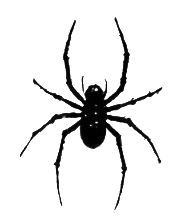
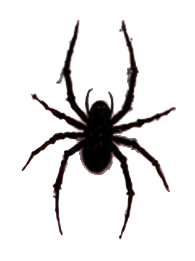
欲望室：换成她加工的竖版背景，蜘蛛和网重新抠；数没到时不再摔停画布

diff --git a/static/yuwang/room.html b/static/yuwang/room.html
@@ -2,14 +2,14 @@
 <style>
 html,body{margin:0;height:100%;background:#e9e6e0;overflow:hidden;-webkit-user-select:none;user-select:none;touch-action:none;font-family:"Kaiti SC","STKaiti","KaiTi","Songti SC",serif}
 #st{position:absolute;left:0;top:0;transform-origin:0 0}
-#bg{position:absolute;left:0;top:0;width:961px;height:1280px}
+#bg{position:absolute;left:0;top:0;width:961px;height:2081px}
 canvas{position:absolute;left:0;top:0}
-#words{position:absolute;left:400px;top:340px;width:380px;height:560px;display:flex;flex-direction:column;justify-content:center;gap:34px;pointer-events:none;transition:opacity .9s}
+#words{position:absolute;left:374px;top:700px;width:400px;height:340px;display:flex;flex-direction:column;justify-content:center;gap:34px;pointer-events:none;transition:opacity .9s}
 .w{color:#141310;font-size:29px;line-height:1.6;opacity:0;transform:translateY(8px) rotate(var(--r));transition:opacity 1.6s,transform 1.6s;text-shadow:0 0 3px #f7f4ee,0 0 6px #f7f4ee,0 0 10px #f2eee6,0 0 16px rgba(242,238,230,.9),0 0 24px rgba(242,238,230,.8)}
 .w.on{opacity:.96;transform:translateY(0) rotate(var(--r))}
 .w i{display:block;font-style:normal;font-size:20px;color:#a3121a;margin-top:4px;letter-spacing:2px;text-shadow:0 0 4px #f7f4ee,0 0 9px #f7f4ee,0 0 14px #f2eee6}
-#rose{position:absolute;left:20px;top:395px;width:350px;height:430px;border-radius:45%;cursor:pointer}
-#stem{position:absolute;left:120px;top:780px;width:150px;height:380px;cursor:pointer}
+#rose{position:absolute;left:20px;top:813px;width:354px;height:310px;border-radius:45%;cursor:pointer}
+#stem{position:absolute;left:140px;top:1122px;width:150px;height:600px;cursor:pointer}
 .bf{position:absolute;border-radius:50%;cursor:pointer;-webkit-tap-highlight-color:transparent}
 #spHit{position:absolute;width:190px;height:230px;cursor:grab}
 #diary{position:fixed;inset:0;background:rgba(236,233,226,.97);opacity:0;pointer-events:none;transition:opacity .7s;overflow-y:auto;-webkit-overflow-scrolling:touch;touch-action:pan-y}
@@ -25,22 +25,22 @@ canvas{position:absolute;left:0;top:0}
 .pg .sd b{display:block;font-weight:normal;font-size:12px;color:#999;margin-bottom:4px;letter-spacing:2px}
 .none{text-align:center;color:#888;margin-top:30vh;font-size:16px}
 </style></head><body>
-<div id="st"><img id="bg" src="/static/yuwang/bg.jpg?v=3"><canvas id="cv" width="961" height="1280"></canvas>
-<div id="words"></div><div id="rose"></div><div id="stem"></div><div id="spHit"></div><div class="bf" id="bf1" style="left:600px;top:595px;width:295px;height:260px"></div><div class="bf" id="bf2" style="left:500px;top:940px;width:215px;height:165px"></div></div>
+<div id="st"><img id="bg" src="/static/yuwang/bg.jpg?v=4"><canvas id="cv" width="961" height="2081"></canvas>
+<div id="words"></div><div id="rose"></div><div id="stem"></div><div id="spHit"></div><div class="bf" id="bf1" style="left:615px;top:1054px;width:283px;height:257px"></div><div class="bf" id="bf2" style="left:507px;top:1439px;width:212px;height:179px"></div></div>
 <div id="diary"><div class="hd"><span class="bk" id="dbk">← 回去</span><span class="tt">噜噜日记</span></div><div id="dlist"></div></div>
 <script>
 (function(){
-var IW=961,IH=1280, st=document.getElementById('st'), cv=document.getElementById('cv'), ctx=cv.getContext('2d');
-var SP=new Image(); SP.src='/static/yuwang/spider.png';
-var WB=new Image(), WRED=null; WB.src='/static/yuwang/web.png';
+var IW=961,IH=2081, st=document.getElementById('st'), cv=document.getElementById('cv'), ctx=cv.getContext('2d');
+var SP=new Image(); SP.src='/static/yuwang/spider.png?v=4';
+var WB=new Image(), WRED=null; WB.src='/static/yuwang/web.png?v=4';
 // 网的丝抠出来了一份；再染一份红的，按数裁出来盖在丝上
 WB.onload=function(){var c=document.createElement('canvas');c.width=WB.width;c.height=WB.height;var x=c.getContext('2d');x.drawImage(WB,0,0);x.globalCompositeOperation='source-in';x.fillStyle='#b0101c';x.fillRect(0,0,c.width,c.height);WRED=c;};
-var WOX=188,WOY=183;   // 抠出来那张里网心的位置
+var WOX=186,WOY=531;   // 抠出来那张里网心的位置
 var D=window.YW_DATA||null;
 // 蜘蛛：静止时它就在原画那个位置，丝从顶上垂下来
-var S0={x:692,y:233}, SPW=185, SPH=220, SPOX=92, SPOY=18;  // 抠图左上(600,215)，头顶挂丝点在图里(692,233)
+var S0={x:707,y:581}, SPW=195, SPH=260, SPOX=98, SPOY=21;  // 抠图左上(600,215)，头顶挂丝点在图里(692,233)
 var pull=0, vel=0, drag=false, dragY0=0, pull0=0, sway=0, open=false, openT=0;
-var WC={x:188,y:183}, WR=250;          // 原画那张网的中心和半径
+var WC={x:186,y:531}, WR=250;          // 原画那张网的中心和半径
           // 拉开时网挪到中间放大
 var hit=document.getElementById('spHit');
 function layout(){var W=innerWidth,H=innerHeight,s=Math.min(W/IW,H/IH);st.style.transform='translate('+((W-IW*s)/2)+'px,'+((H-IH*s)/2)+'px) scale('+s+')';st._s=s;}
@@ -79,9 +79,9 @@ function fillWords(){
     setTimeout(function(){d.classList.add('on');},600+i*900);});
 }
 // 网
-function webPts(c,R,t){var ds=dims(),n=ds.length||18,pts=[];for(var i=0;i<n;i++){var a=-Math.PI/2+i/n*Math.PI*2,v=val(ds[i].key)/100;var r=R*(0.06+0.94*v)*(1+0.012*Math.sin(t*1.3+i));pts.push({x:c.x+Math.cos(a)*r,y:c.y+Math.sin(a)*r,a:a,v:v,name:ds[i].name,raw:val(ds[i].key)});}return pts;}
+function webPts(c,R,t){var ds=dims(),n=ds.length,pts=[];for(var i=0;i<n;i++){var a=-Math.PI/2+i/n*Math.PI*2,v=val(ds[i].key)/100;var r=R*(0.06+0.94*v)*(1+0.012*Math.sin(t*1.3+i));pts.push({x:c.x+Math.cos(a)*r,y:c.y+Math.sin(a)*r,a:a,v:v,name:ds[i].name,raw:val(ds[i].key)});}return pts;}
 // 拉开以后那张：自己织一张完整的网，铺在中间那块白上
-var BC={x:575,y:615}, BRR=170, PW=null, PWR=null, PWS=0;
+var BC={x:594,y:911}, BRR=170, PW=null, PWR=null, PWS=0;
 function weave(){var sz=Math.ceil(BRR*2.3),c=document.createElement('canvas');c.width=c.height=sz;var x=c.getContext('2d'),o=sz/2,n=18,ang=[];
   for(var i=0;i<n;i++)ang.push(-Math.PI/2+i/n*Math.PI*2+(Math.sin(i*7.3)*0.05));
   x.strokeStyle='#161514';x.lineCap='round';
@@ -99,6 +99,7 @@ function redClip(c,R,pts,n){ctx.beginPath();
 function drawWeb(t,k){
   // 角落里原来那张：一直在，丝按数染红
   var pts=webPts(WC,WR,t),n=pts.length;
+  if(!n)return;
   if(WRED){ctx.save();redClip(WC,WR,pts,n);ctx.globalAlpha=0.82+0.18*Math.sin(t*1.4);
     ctx.drawImage(WRED,WC.x-WOX,WC.y-WOY);ctx.drawImage(WRED,WC.x-WOX,WC.y-WOY);ctx.restore();}
   if(k<0.01)return;
@@ -144,14 +145,15 @@ function drawInks(){for(var i=inks.length-1;i>=0;i--){var k=inks[i];k.t+=1/60;va
   var r=(14+90*Math.pow(p,.6))*k.big,a=(1-p)*.5;var g=ctx.createRadialGradient(k.x,k.y,r*.2,k.x,k.y,r);g.addColorStop(0,'rgba(170,14,24,'+a+')');g.addColorStop(.7,'rgba(150,10,20,'+a*.35+')');g.addColorStop(1,'rgba(150,10,20,0)');
   ctx.fillStyle=g;ctx.beginPath();ctx.arc(k.x,k.y,r,0,7);ctx.fill();}}
 var t0=performance.now();
-function frame(now){var t=(now-t0)/1000;
+function frame(now){requestAnimationFrame(frame);try{step(now);}catch(e){}}
+function step(now){var t=(now-t0)/1000;
   if(!drag){vel+=-pull*0.06;vel*=0.86;pull+=vel;if(Math.abs(pull)<0.05&&Math.abs(vel)<0.05){pull=0;vel=0;}}
   sway=Math.sin(t*0.9)*3+Math.sin(t*0.37)*2+(drag?0:vel*0.6);
   openT+=((open?1:0)-openT)*0.07;
   dims().forEach(function(d){var v=+d.score||0;cur[d.key]=cur[d.key]==null?0:cur[d.key]+(v-cur[d.key])*0.04;});
   ctx.clearRect(0,0,IW,IH);
   drawWeb(t,openT);drawInks();drawSpider(t);
-  requestAnimationFrame(frame);}
+}
 requestAnimationFrame(frame);
 // 玫瑰：噜噜日记
 var dia=document.getElementById('diary');
